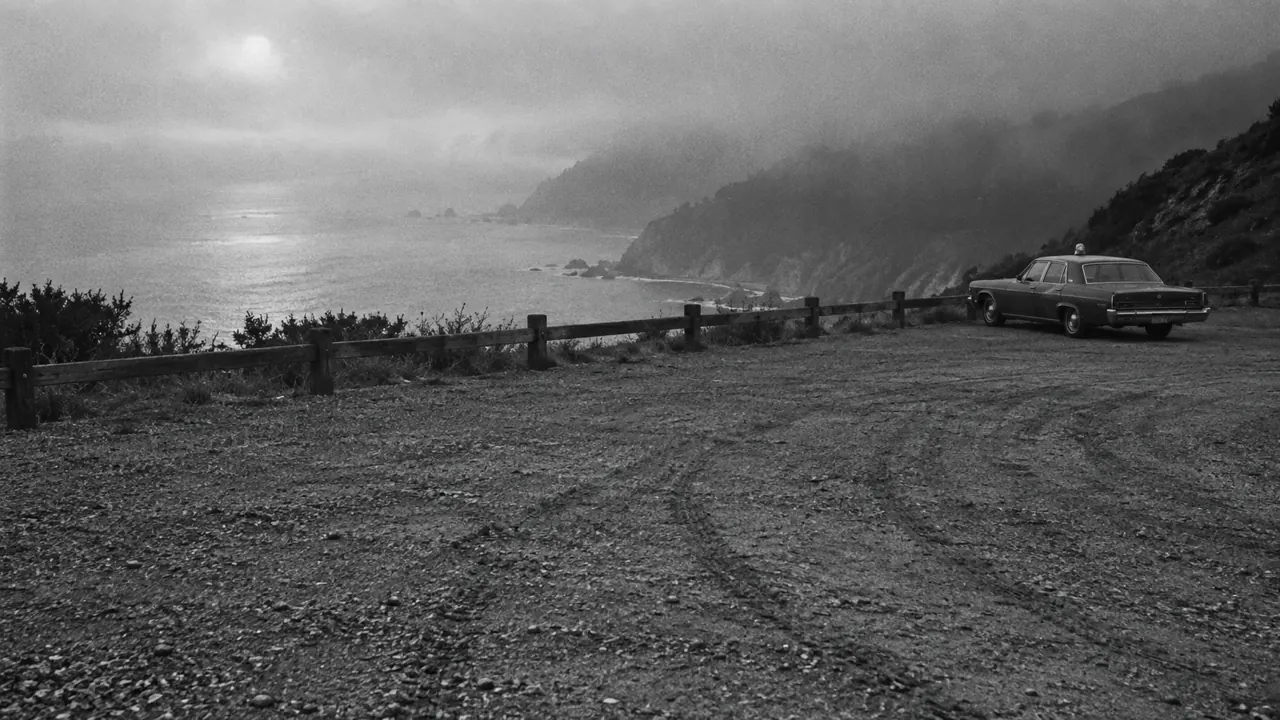
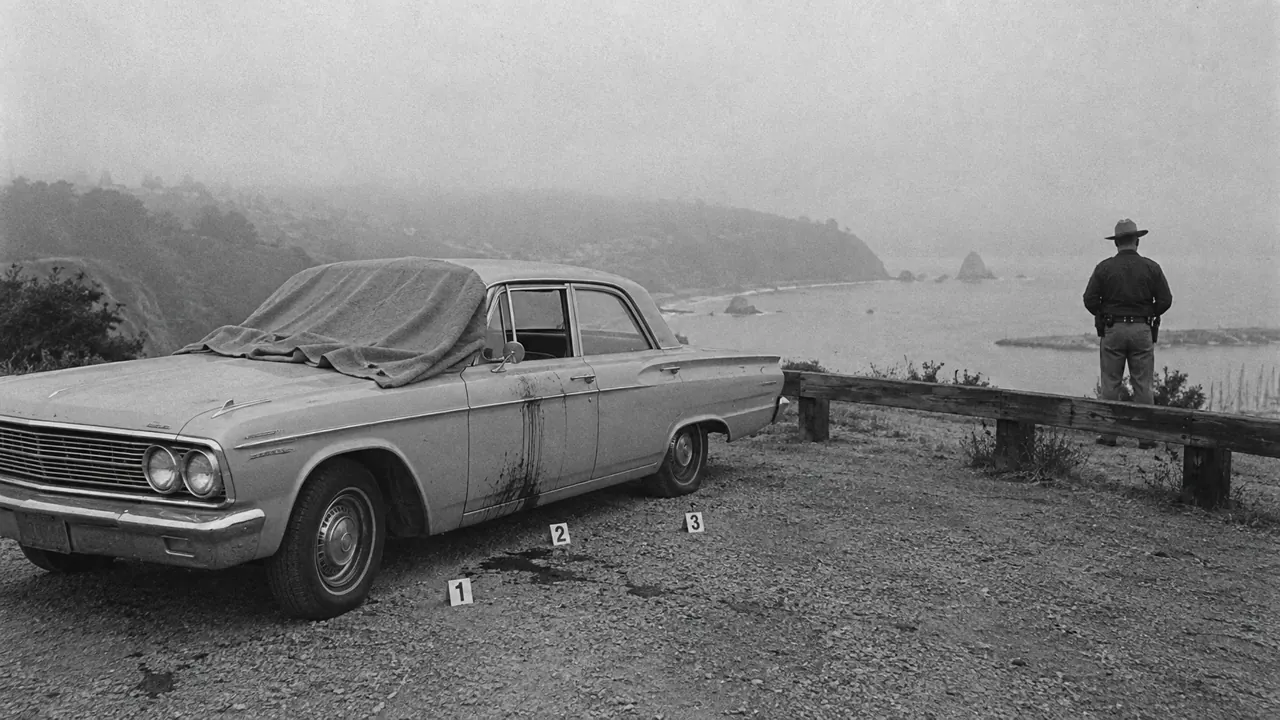
CASE 05 becomes a red-star case: coroner, car scene, survivor's chart
- graphic + warn; drone under the surf and foghorn
- r_coroner (Mason Hill): wound by wound, stippling gives firing distance,
  bullet paths put the shooter at the half-open driver window, eight
  casings within a metre — he never took a step
- r_scene (Cedar Creek): glass inward, casings in a half-circle, spatter,
  pooled, transfer and drip patterns; the survivor went round the back of
  the car toward the side the shooter stood on
- r_hospital: the survivor's wounds and the notes he wrote while intubated
- Wound details kept away from the real case's victims
- New Codex photos mh_car and cedar_car; masonhill and cedar redrawn with
  the car and its traces. All blurred until opened

diff --git a/cases/c05-westcoast-1969.js b/cases/c05-westcoast-1969.js
@@ -31,9 +31,10 @@
     id: 'c05', no: 5, region: 'overseas',
     title: '모래시계의 편지', year: '1968–1969', place: '캘리포니아 카브릴로 만 연안 (가상 지명)',
     motif: '모티프: 조디악 연쇄살인', length: '약 35분',
-    stars: 4,
+    stars: 4, graphic: true,
+    warn: '이 기록에는 총상의 자리와 발사 거리, 차 안팎의 혈흔을 검시·감식 기록의 말투로 적은 대목과 그 현장 사진이 들어 있습니다.',
     frame: 'papers',
-    mood: { light: 'sodium', fx: 'fog', amb: ['surf', 'horn'], line: '1969년, 캘리포니아 해안의 밤안개. 편집국 앞으로 모래시계가 그려진 편지가 온다.' },
+    mood: { light: 'sodium', fx: 'fog', amb: ['surf', 'horn', 'drone'], line: '1969년, 캘리포니아 해안의 밤안개. 편집국 앞으로 모래시계가 그려진 편지가 온다.' },
     tag: '**증거철 05** · KNOWLTON POLICE DEPT. · Case 68-1214 / 69-0503 · 편지 원본은 사본으로 대체 · 번역본',
     disclaimer: '실제 미제 사건의 모티프만 빌린 창작입니다. 도시·신문사·인물은 모두 지어낸 것이며, 실제 사건의 피해자나 용의자와 아무 관련이 없습니다.',
     emptyRead: '놀턴 경찰서 지하 창고에서 올라온 상자. 신문사 편집국이 넘긴 편지 사본과 경찰 기록이 섞여 있다.',
@@ -153,7 +154,7 @@
     },
     docs: {
       /* ── 편집국 우편함 ── */
-      m_1: { cls: 'f-gaegu ink-blue', src: 'mail', title: '⧗ 편지 (1)', meta: '1968년 12월 17일 (화) 수령 · 시티 데스크 앞', body: [
+      m_1: { cls: 'f-gaegu ink-blue', src: 'mail', blood: false, title: '⧗ 편지 (1)', meta: '1968년 12월 17일 (화) 수령 · 시티 데스크 앞', body: [
         { img: 'letter1', cap: '첫 편지와 봉투 (사본).' },
         { note: '원문 영어. 파란 볼펜으로 쓴 대문자. 편집국 번역부 옮김.' },
         '편집자에게.',
@@ -164,7 +165,7 @@
         { sign: '⧗' },
         { p: '봉투 — [[소인]] SANTA REINA CALIF · DEC 16 1968 · AM ([[산타 레이나]] 우체국, 월요일 아침 수거분) · 6센트 우표 · 받는 이 주소도 대문자', f: 'f_postmark' },
       ] },
-      m_2: { cls: 'f-gaegu ink-blue', src: 'mail', title: '⧗ 편지 (2) — 암호문 동봉', meta: '1969년 5월 6일 (화) 수령 · 시티 데스크 앞', body: [
+      m_2: { cls: 'f-gaegu ink-blue', src: 'mail', blood: false, title: '⧗ 편지 (2) — 암호문 동봉', meta: '1969년 5월 6일 (화) 수령 · 시티 데스크 앞', body: [
         { img: 'cipherimg', cap: '둘째 장에 그려진 기호들 (사본).' },
         { note: '원문 영어. 같은 파란 볼펜 대문자.' },
         'THE SAND RUNS. [[시더 크릭]]도 나다.',
@@ -174,7 +175,7 @@
         { sign: '⧗' },
         { p: '봉투 — 소인 MILLBROOK CALIF · MAY 5 1969 · AM ([[밀브룩]] 우체국, 월요일 아침 수거분) · 6센트 우표 2장', f: 'f_postmark' },
       ] },
-      m_3: { cls: 'typed', src: 'mail', title: '⧗ 편지 (3) — 타자', meta: '1969년 5월 9일 (금) 수령 · 편집자 앞', body: [
+      m_3: { cls: 'typed', src: 'mail', blood: false, title: '⧗ 편지 (3) — 타자', meta: '1969년 5월 9일 (금) 수령 · 편집자 앞', body: [
         { img: 'typed', cap: '타자로 친 편지 (사본).' },
         { note: '원문 영어. [[타자기]]로 침. 소문자 e 윗부분이 군데군데 끊겨 있다. 서명 자리에 모래시계를 펜으로 그렸는데 위아래 삼각형 크기가 다르다.' },
         '쿠리어 편집자 귀하.',
@@ -183,7 +184,7 @@
         { sign: '(펜으로 그린 모래시계)' },
         '봉투 — 소인 KNOWLTON CALIF · MAY 8 1969 · PM (놀턴 중앙우체국) · 주소는 타자',
       ] },
-      m_4: { cls: 'f-gaegu ink-blue', src: 'mail', title: '⧗ 편지 (4)', meta: '1969년 8월 19일 (화) 수령 · 시티 데스크 앞', body: [
+      m_4: { cls: 'f-gaegu ink-blue', src: 'mail', blood: false, title: '⧗ 편지 (4)', meta: '1969년 8월 19일 (화) 수령 · 시티 데스크 앞', body: [
         { note: '원문 영어. 파란 볼펜 대문자.' },
         'THE SAND RUNS.',
         '토요일 밤 [[그레이록 등대]]에 경찰차가 네 대 있더군. 나는 그 앞을 지나갔다. 너희는 나를 보고도 보지 못한다.',
@@ -192,19 +193,19 @@
         { p: '봉투 — 소인 PORT HALEY CALIF · AUG 18 1969 · AM ([[포트 헤일리]] 우체국, 월요일 아침 수거분)', f: 'f_postmark' },
         { m: '편지는 무엇이든 쓸 수 있다. 봉투는 제가 지나온 길만 말한다.' },
       ] },
-      m_r1: { cls: 'f-melody ink-navy', src: 'mail', title: '독자 편지 — "살인자에게 1면을 내주다니"', meta: '1968년 12월 23일 수령 · 밀브룩 거주 독자', body: [
+      m_r1: { cls: 'f-melody ink-navy', src: 'mail', blood: false, title: '독자 편지 — "살인자에게 1면을 내주다니"', meta: '1968년 12월 23일 수령 · 밀브룩 거주 독자', body: [
         '편집자에게. 저는 쿠리어를 20년 읽었습니다. 그런데 그런 사람의 편지를 1면에 싣다니요. 그 사람은 바로 그걸 바라는 겁니다.',
         '우리 동네에선 요즘 해가 지면 아무도 차를 세워 두지 않습니다. 일요일 아침 신문을 주우러 나가는 것도 겁이 난다는 이웃이 있어요.',
         { sign: 'H. 캠벨 부인' },
       ] },
-      m_r2: { cls: 'f-pen ink-black', src: 'mail', need: ['k_cipher'], title: '독자 편지 — "암호를 풀었습니다"', meta: '1969년 5월 12일 수령 · 놀턴 거주 독자 (고교 교사)', body: [
+      m_r2: { cls: 'f-pen ink-black', src: 'mail', need: ['k_cipher'], blood: false, title: '독자 편지 — "암호를 풀었습니다"', meta: '1969년 5월 12일 수령 · 놀턴 거주 독자 (고교 교사)', body: [
         '편집자에게. 금요일자 암호를 풀었습니다. 답은 THE POLICE ARE BLIND AND DEAF입니다. 기호가 반복되는 자리를 세어 보면 압니다.',
         '(번역부 메모: 첫 줄 둘째 낱말은 기호가 넷인데 POLICE는 여섯 글자다. 틀린 풀이.)',
         { sign: 'G. 월시' },
       ] },
 
       /* ── 쿠리어 자료실 ── */
-      n_1216: { src: 'morgue', find: ['k_masonhill', 'k_dec14'], title: '메이슨 힐 전망대서 젊은 남녀 숨진 채 발견', kicker: 'MONDAY · FINAL EDITION', meta: '1968년 12월 16일 (월) · 1면', body: [
+      n_1216: { src: 'morgue', find: ['k_masonhill', 'k_dec14'], blood: false, title: '메이슨 힐 전망대서 젊은 남녀 숨진 채 발견', kicker: 'MONDAY · FINAL EDITION', meta: '1968년 12월 16일 (월) · 1면', body: [
         { img: 'masonhill', cap: '메이슨 힐 전망대 주차장. 15일 아침.' },
         '14일 밤 [[메이슨 힐]] 전망대 주차장에 서 있던 승용차 안에서 [[대니얼 오어]](22)와 [[루스 캘러핸]](20)이 숨진 채 발견됐다. 두 사람은 약혼을 앞두고 있었다.',
         '카운티 보안관실은 "지갑과 시계가 그대로 있어 강도로 보기 어렵다"고 밝혔다. 두 사람은 총상을 입었으며, 발견 시각은 15일 0시 50분쯤이다.',
@@ -212,23 +213,23 @@
         '전망대는 시내에서 차로 15분 거리로, 밤이면 젊은 연인들이 차를 세우는 곳으로 알려져 있다.',
         { note: 'The Knowlton Courier · 번역: 편집국 번역부' },
       ] },
-      n_1220: { src: 'morgue', find: ['k_hourglass', 'k_courier', 'k_withheld'], title: '"모래시계"라는 사내, 본사에 편지 — "1면에 실어라"', kicker: 'FRIDAY · FINAL EDITION', meta: '1968년 12월 20일 (금) · 1면', body: [
+      n_1220: { src: 'morgue', find: ['k_hourglass', 'k_courier', 'k_withheld'], blood: false, title: '"모래시계"라는 사내, 본사에 편지 — "1면에 실어라"', kicker: 'FRIDAY · FINAL EDITION', meta: '1968년 12월 20일 (금) · 1면', body: [
         '메이슨 힐 사건의 범인이라고 스스로 밝힌 사람이 17일 본사 편집국에 편지를 보내왔다. 편지 끝에는 모래시계 그림으로 서명이 되어 있었다.',
         '본사는 경찰과 협의한 끝에 편지를 싣기로 했다. 다만 경찰의 요청에 따라 편지의 일부는 [[보도 유보]]했다.',
         '[[마거릿 로웰]] 시티 에디터는 "싣지 않으면 또 사람을 해치겠다는 편지를 무시할 수 없었다"고 말했다.',
         { note: 'The Knowlton Courier · 번역: 편집국 번역부' },
       ] },
-      n_0505: { src: 'morgue', find: ['k_cedar', 'k_may3'], title: '시더 크릭 주차장서 또… 여성 숨지고 남성 중상', kicker: 'MONDAY · FINAL EDITION', meta: '1969년 5월 5일 (월) · 1면', body: [
+      n_0505: { src: 'morgue', find: ['k_cedar', 'k_may3'], blood: false, title: '시더 크릭 주차장서 또… 여성 숨지고 남성 중상', kicker: 'MONDAY · FINAL EDITION', meta: '1969년 5월 5일 (월) · 1면', body: [
         { img: 'cedar', cap: '시더 크릭 트레일 주차장. 4일 아침.' },
         '3일 밤 [[시더 크릭]] 트레일 주차장에서 [[앤 노리스|k_morris]](24)가 숨지고 함께 있던 [[레이 두건]](27)이 크게 다쳤다. 두건은 병원에서 고비를 넘겼다.',
         '경찰은 사건 직후 경찰서에 걸려 온 [[신고 전화|k_payphone]] 한 통에 대해 "수사 중"이라며 말을 아꼈다.',
         '지난해 12월 메이슨 힐 사건과의 관련성에 대해 경찰은 "아직 말할 단계가 아니다"라고 했다.',
         { note: 'The Knowlton Courier · 번역: 편집국 번역부' },
       ] },
-      n_0507: { src: 'morgue', find: ['k_misprint', 'k_morris'], title: '바로잡습니다', kicker: 'WEDNESDAY', meta: '1969년 5월 7일 (수) · 2면', body: [
+      n_0507: { src: 'morgue', find: ['k_misprint', 'k_morris'], blood: false, title: '바로잡습니다', kicker: 'WEDNESDAY', meta: '1969년 5월 7일 (수) · 2면', body: [
         { p: '5일자 1면 시더 크릭 사건 기사에서 피해자 이름 「앤 노리스」는 「[[앤 모리스]]」의 [[오자]]이기에 바로잡습니다. 유족께 사과드립니다.', f: 'f_misprint' },
       ] },
-      n_0509: { src: 'morgue', find: ['k_cipher', 'k_sketch', 'k_star'], title: '"풀어 보라" — 모래시계의 암호문 전문', kicker: 'FRIDAY · FINAL EDITION', meta: '1969년 5월 9일 (금) · 1면', body: [
+      n_0509: { src: 'morgue', find: ['k_cipher', 'k_sketch', 'k_star'], blood: false, title: '"풀어 보라" — 모래시계의 암호문 전문', kicker: 'FRIDAY · FINAL EDITION', meta: '1969년 5월 9일 (금) · 1면', body: [
         '본사는 6일 도착한 편지에 들어 있던 [[암호문]]을 그대로 싣는다. 경찰과 대학 언어학과가 풀이에 나섰으나 아직 뜻을 밝히지 못했다.',
         { cipher: CIPHER_LINE },
         { img: 'sketch', cap: '생존자의 기억을 바탕으로 경찰이 만든 [[몽타주]].' },
@@ -236,13 +237,13 @@
         '경쟁지 [[베이 이브닝 스타]]는 암호를 가장 먼저 푼 독자에게 500달러를 주겠다고 발표했다.',
         { note: 'The Knowlton Courier · 번역: 편집국 번역부' },
       ] },
-      n_sunday: { src: 'morgue', find: ['k_sunday'], title: '쿠리어 일요일판, 만 북쪽 세 마을까지 새벽 배달', kicker: 'SUNDAY · ANNOUNCEMENT', meta: '1968년 9월 29일 (일) · 사고(社告)', body: [
+      n_sunday: { src: 'morgue', find: ['k_sunday'], blood: false, title: '쿠리어 일요일판, 만 북쪽 세 마을까지 새벽 배달', kicker: 'SUNDAY · ANNOUNCEMENT', meta: '1968년 9월 29일 (일) · 사고(社告)', body: [
         { img: 'truck', cap: '새로 들여온 배송 트럭.' },
         { p: '다음 달부터 일요일판이 [[7번 노선]] 신설로 [[산타 레이나]], [[밀브룩]], [[포트 헤일리]]의 가정에도 해 뜨기 전에 배달된다.', f: 'f_route7' },
         '배송 트럭은 토요일 자정이 지나면 [[도크 스트리트]]의 [[배송 창고]]에서 판을 싣고 떠난다.',
         '배송부장 [[버넌 오스굿]]은 "일요일 아침 식탁마다 쿠리어를"이라고 말했다.',
       ] },
-      n_0818: { src: 'morgue', find: ['k_graylock'], title: '등대 잠복 허탕 — 모래시계 나타나지 않아', kicker: 'MONDAY', meta: '1969년 8월 18일 (월) · 3면', body: [
+      n_0818: { src: 'morgue', find: ['k_graylock'], blood: false, title: '등대 잠복 허탕 — 모래시계 나타나지 않아', kicker: 'MONDAY', meta: '1969년 8월 18일 (월) · 3면', body: [
         { img: 'lighthouse', cap: '그레이록 등대길. 잠복 이튿날 아침.' },
         '경찰은 16일 밤부터 17일 아침까지 [[그레이록 등대]] 일대에 잠복했으나 수상한 사람을 찾지 못했다. 등대 근처에서 연인들의 차가 자주 서는 데 따른 조치였다.',
         '경찰 관계자는 "밤새 지나간 차는 몇 대 되지 않았다"고 말했다.',
@@ -250,14 +251,37 @@
       ] },
 
       /* ── 놀턴 경찰 기록철 ── */
-      r_radio: { src: 'kpd', title: '무전 기록 — 12월 15일 새벽', meta: '카운티 보안관실 통신실 · 채널 2 · 받아 적은 이: 통신원 매킨리', body: [
+      r_radio: { src: 'kpd', blood: true, title: '무전 기록 — 12월 15일 새벽', meta: '카운티 보안관실 통신실 · 채널 2 · 받아 적은 이: 통신원 매킨리', body: [
         { say: '메이슨 힐 전망대 주차장, 승용차 1대. 안에 남녀 2명, 반응 없음. 구급차 요청.', who: '순찰 12', at: '00:52' },
         { say: '구급차 출발. 보안관 대리 두 명 더 보냄.', who: '통신실', at: '00:54' },
         { say: '두 사람 다 숨졌음. 현장 보존. 차 [[카 라디오]] 켜져 있음, 음악 나오고 있음. 탄피 여럿, 수거 대기.', who: '순찰 12', at: '01:12', f: 'f_radio_broadcast' },
         { say: '알았다. 검시관 연락하겠다.', who: '통신실', at: '01:13' },
         { note: '※ 이 채널은 시판되는 [[경찰 무전 수신기]](police band 라디오)로 누구나 들을 수 있음. 카운티 안에 수백 대로 추정.' },
       ] },
-      r_call: { src: 'kpd', title: '통신실 녹취 — 5월 4일 0시 18분 신고 전화', meta: '놀턴 경찰서 통신실 · 받은 이: 당직 [[하비 스톤 경사]] · 녹음 테이프에서 옮겨 적음', body: [
+      r_coroner: { src: 'kpd', need: ['k_orr'], skin: 'report', blood: 'heavy', title: '검시 보고서 — 메이슨 힐 (68-1214)', kicker: 'KABRILLO COUNTY CORONER · 번역본', meta: '1968년 12월 15일 09:40 ~ 16:10 · 카운티 병원 영안실 · 검시의 H. 린드퀴스트 · 입회 보안관 대리 2', body: [
+        { img: 'mh_car', cap: '15일 01:30 현장 사진. 검시관이 오기 전까지 두 사람은 앞좌석에 그대로 있었다.' },
+        { h: '1. 대니얼 오어 (남 · 22세) — 운전석' },
+        { rows: [
+          ['총상', '2곳. 사출구 없음. 탄두 2개 회수'],
+          ['①', '왼쪽 관자놀이. 사입구 지름 약 6mm, 둘레 지름 4cm 안에 화약 알갱이가 박힌 점상 문신 — 발사 거리 15~45cm. 탄두는 머리뼈 안을 오른쪽 위로 지나 두정부 안쪽에 멈춤'],
+          ['②', '왼쪽 가슴 셋째 갈비 사이. 화약 문신 없음 — 60cm 넘는 거리. 우심실을 뚫고 척추 오른쪽에 멈춤'],
+          ['손', '왼손 등과 새끼손가락 쪽에 화약 알갱이 몇 점 — 얼굴 앞으로 손을 들어 올린 채 맞은 것으로 봄'],
+          ['사인', '① 두부 총상'],
+        ], head: ['항목', '소견'] },
+        { h: '2. 루스 캘러핸 (여 · 20세) — 조수석' },
+        { rows: [
+          ['총상', '4곳. 등 오른쪽 위 3, 오른쪽 위팔 1 (팔을 뚫고 가슴으로 다시 들어감). 탄두 4개 회수'],
+          ['방향', '모두 등에서 가슴 쪽으로, 차의 왼쪽에서 오른쪽으로, 조금 아래로. 화약 문신 없음 — 1m 넘는 거리'],
+          ['자세', '몸통이 조수석 문 쪽으로 돌아 있었음. 운전석 창에 등을 보인 채 맞음'],
+          ['손', '오른손 손바닥과 손가락 안쪽에 제 피. 손톱 두 개 밑에 문 안쪽 손잡이의 크롬 도금 부스러기'],
+          ['사인', '폐와 대동맥 손상에 따른 실혈'],
+        ], head: ['항목', '소견'] },
+        '두 사람 모두 위에 팝콘과 탄산음료가 조금 — 먹은 지 1~2시간. 체온·시반·시강으로 본 사망 시각은 14일 23시에서 15일 0시 30분 사이.',
+        '몸에서 나온 탄두 6개와 계기판·조수석 문틀에서 파낸 2개, 모두 .22 구경 롱 라이플. 강선 자국이 같아 한 총에서 나온 것으로 봄. 탄피 8개는 운전석 문 밖 자갈 위 1m 안에 모여 있었음 (보안관실 감식).',
+        { note: '※ 검시의 소견: 첫 발은 반쯤 내린 운전석 창 틈으로, 창 바로 밖에서 쏨. 조수석 여성은 문을 열려고 돌아앉다가 등에 맞음. 쏜 사람은 서 있던 자리에서 한 걸음도 옮기지 않았음.' },
+        { sign: '카브릴로 카운티 검시의 H. 린드퀴스트 (서명)' },
+      ] },
+      r_call: { src: 'kpd', blood: true, title: '통신실 녹취 — 5월 4일 0시 18분 신고 전화', meta: '놀턴 경찰서 통신실 · 받은 이: 당직 [[하비 스톤 경사]] · 녹음 테이프에서 옮겨 적음', body: [
         { say: '놀턴 경찰서입니다.', who: '스톤', at: '00:18' },
         { say: '[[시더 크릭]] 트레일 주차장에 가 봐. 차 안에 두 사람이 있다.', who: '남자' },
         { say: '성함이 어떻게 되십니까? 지금 어디서—', who: '스톤' },
@@ -268,61 +292,98 @@
         '00:20 스톤 경사, 전화회사 교환국에 [[회선 추적]] 요청. 00:21 순찰차 2대 시더 크릭으로 출발.',
         { note: '목소리: 낮고 차분함. 사투리 없음. 30대 안팎으로 들림 (스톤 경사 소견).' },
       ] },
-      r_trace: { src: 'kpd', need: ['k_trace'], skin: 'report', title: '회선 추적 회신 — 5월 4일 새벽', meta: '카브릴로 전화회사 놀턴 교환국 → 놀턴 경찰서', body: [
+      r_trace: { src: 'kpd', need: ['k_trace'], skin: 'report', blood: false, title: '회선 추적 회신 — 5월 4일 새벽', meta: '카브릴로 전화회사 놀턴 교환국 → 놀턴 경찰서', body: [
         { img: 'payphone', cap: '00:39 순찰차가 찍은 공중전화. 수화기가 늘어져 있다.' },
         { rows: [['00:20', '경찰서 요청 접수. 통화 회선이 열린 채 유지됨'], ['00:29', '발신 회선 확인 — 도크 스트리트 212, 주유소 옆 [[공중전화]] (KN 4-0917)'], ['00:39', '순찰차 도착. 수화기가 줄에 매달려 흔들리고 있었음. 주변에 사람 없음'], ['비고', '공중전화 길 건너편은 놀턴 쿠리어 [[배송 창고]]. 토요일 밤 일요일판 싣는 작업 중이라 창고 불이 켜져 있었음']], head: ['시각', '내용'], f: { 1: 'f_trace', 3: 'f_trace' } },
         { p: '공중전화 수화기와 부스 유리에서 지문 여럿 채취 — 주유소 손님과 섞여 가려내기 어려움.' },
         { sign: '교환국 야간 주임 R. 파울러' },
       ] },
-      r_withheld: { src: 'kpd', need: ['k_withheld'], skin: 'report', title: '협조 요청 — 보도 유보 사항', meta: '놀턴 경찰서 수사과 → 쿠리어·이브닝 스타 편집국 · 1969년 5월 5일', body: [
+      r_scene: { src: 'kpd', need: ['k_morris'], skin: 'report', blood: 'heavy', title: '현장 감식 기록 — 시더 크릭 트레일 주차장', kicker: 'KNOWLTON P.D. · 감식반 · 69-0503 · 번역본', meta: '1969년 5월 4일 00:43 순찰차 도착 · 02:10 ~ 06:30 감식 · 감식반 E. 토레스', body: [
+        { img: 'cedar_car', cap: '조수석 쪽에서 들여다본 피해 차량. 02:30 섬광 촬영.' },
+        { rows: [
+          ['차량', '1964년형 2도어 세단 (레이 두건 소유). 시동·전조등·라디오 모두 꺼짐. 문 잠금 풀림'],
+          ['조수석 창', '밖에서 안으로 깨짐. 창틀에 가장자리만 남음. 유리 알갱이는 조수석, 운전석 바닥, 두 사람 무릎 자리까지 흩어짐. 창밖 자갈 위에는 몇 알뿐'],
+          ['탄피', '9mm 파라벨룸 7개 — 조수석 문에서 1~2m 사이에 반원을 그리며 흩어짐'],
+          ['지붕', '[[캠핑 랜턴]] 1개 — 켜진 채 발견. 기름 거의 다 탐. (보도 유보 사항 2 — 무전에 올리지 않음)'],
+        ], head: ['항목', '소견'], f: { 3: 'f_withheld' } },
+        { h: '혈흔' },
+        { list: [
+          '1. 조수석 등받이·머리받이와 천장 안감 — 지름 1~3mm 비산흔 수십 점. 조수석에서 운전석 쪽으로 뻗음.',
+          '2. 조수석 시트 — 고인 피. 가장자리부터 말라 들어감. 시트 스프링을 지나 바닥 매트까지 스밈.',
+          '3. 운전석 창 안쪽과 운전석 문 안쪽 — 가는 비산흔과 흘러내린 자국.',
+          '4. 운전석 문 안쪽 손잡이와 창틀 — 손바닥 전이흔 여러 겹. 손잡이를 몇 번 놓쳤다가 다시 잡은 자국.',
+          '5. 자갈 위 낙하흔 — 운전석 문에서 나와 트렁크를 돌아 조수석 쪽으로 이어짐. 뒤 펜더에 손바닥 자국 (차를 짚고 돌아간 자국). 조수석 뒷바퀴에서 1.8m 되는 자리에 고인 피 — 생존자가 엎드려 있던 자리. 쏜 사람이 서 있던 쪽으로 기어간 셈.',
+        ] },
+        { h: '발자국 · 바퀴 자국' },
+        '조수석 쪽 흙과 자갈에 남자 신발 자국 — 크기 10½ 안팎, 밑창에 가로 홈이 촘촘한 작업화. 차 뒤쪽에서 와서 조수석 창 앞에 멈추었다가 같은 길로 돌아감. 보폭이 처음부터 끝까지 고르다. 뛴 자국이 없다.',
+        '피해 차 뒤 약 6m에 다른 차의 바퀴 자국. 한 번에 빠져나감. 후진한 자국 없음.',
+        { note: '※ 조수석 발밑에 앤 모리스의 핸드백 — 잠긴 채. 지갑 속 21달러 그대로.' },
+        { note: '※ 00:18 신고 전화는 「차 안에 두 사람이 있다」고 했다. 순찰차가 왔을 때 한 사람은 차 밖 자갈 위에 있었다. 전화를 건 사람은 그가 문을 열고 나오는 것을 보지 못했다.' },
+        { sign: '감식반 E. 토레스' },
+      ] },
+      r_hospital: { src: 'kpd', need: ['k_dugan'], skin: 'report', blood: 'heavy', title: '진료 기록 발췌 — 레이 두건', kicker: 'KNOWLTON MUNICIPAL HOSPITAL · 응급실 · 외과 · 번역본', meta: '1969년 5월 4일 01:22 입원 · 수사과 요청으로 발췌', body: [
+        { rows: [
+          ['01:22', '구급차 도착. 의식 있으나 말을 하지 못함. 혈압 70/40. 옷과 머리카락에 유리 알갱이'],
+          ['총상 ①', '오른쪽 어깨 — 쇄골 골절. 탄두가 오른쪽 폐 윗부분을 찢고 등 근육 속에서 멈춤. 가슴 안에 피와 공기가 차 숨을 제대로 쉬지 못함'],
+          ['총상 ②', '오른쪽 위팔 안쪽 관통. 사입구 둘레에 화약 문신 없이 유리 가루가 박힘 — 창유리를 사이에 두고 맞음'],
+          ['총상 ③', '오른쪽 옆구리 — 아홉째 갈비 골절, 간 가장자리 찢김'],
+          ['열상', '두 아래팔 바깥쪽에 유리 조각에 베인 상처 11곳 — 얼굴 앞으로 팔을 들어 막은 자세'],
+          ['처치', '기관 삽관. 오른쪽 가슴관 삽입 (피 1,100cc 빠짐). 개복 수술 (간 봉합). 수혈 7단위'],
+        ], head: ['시각 · 부위', '기록'] },
+        '5월 6일 중환자실 간호 기록: 환자가 종이에 「불빛」 「목소리」 두 낱말만 되풀이해 씀. 목에 관을 꽂고 있어 닷새 동안 말을 할 수 없음.',
+        '5월 7일 수사과 면담 (필담): 뒤에 선 차에서 한 사람이 손전등을 들고 조수석 쪽으로 걸어옴. 경찰인 줄 알았음. 불빛 뒤에서 낮은 목소리로 무어라 말했고, 그다음에 유리가 깨졌다.',
+        { note: '※ 함께 실려 온 앤 모리스 (24)는 01:24 도착 때 이미 숨짐. 오른쪽 가슴 2, 오른쪽 옆구리 1, 오른쪽 위팔 1 — 네 곳 모두 사입구 둘레에 유리 가루. 검시관 소견: 조수석 창을 사이에 두고 1m 안에서 쏨. 몸에서 나온 탄두와 두건의 탄두 모두 9mm.' },
+        { sign: '외과 당직의 R. 페이지 (서명)' },
+      ] },
+      r_withheld: { src: 'kpd', need: ['k_withheld'], skin: 'report', blood: false, title: '협조 요청 — 보도 유보 사항', meta: '놀턴 경찰서 수사과 → 쿠리어·이브닝 스타 편집국 · 1969년 5월 5일', body: [
         { stamp: 'CONFIDENTIAL' },
         '아래 사항은 수사상 필요하므로 기사로 쓰지 말아 주기 바람.',
         { list: ['1. ⧗ 편지의 첫 문장 (12월 편지에서 앞으로 늘 이 문구로 시작하겠다고 밝힘)', '2. 시더 크릭 현장 피해 차량 지붕 위의 [[캠핑 랜턴]]', '3. 5월 4일 새벽 신고 전화의 내용'], f: { 1: 'f_withheld' } },
         { p: '2번은 현장 무전에도 올리지 않았음. 생존자와 현장 경관 네 명만 아는 사항.', f: 'f_withheld' },
         { sign: '수사과장 D. 하글런드' },
       ] },
-      r_typewriter: { src: 'kpd', need: ['k_typewriter'], skin: 'report', title: '문서 감정 회신 — 5월 9일 도착 타자 편지', meta: '주 법무부 감식과 → 놀턴 경찰서 · 1969년 5월 16일', body: [
+      r_typewriter: { src: 'kpd', need: ['k_typewriter'], skin: 'report', blood: false, title: '문서 감정 회신 — 5월 9일 도착 타자 편지', meta: '주 법무부 감식과 → 놀턴 경찰서 · 1969년 5월 16일', body: [
         { rows: [['활자', '엘리트체. 소문자 e 윗고리 파손, 대문자 T 왼쪽으로 기울어 찍힘'], ['대조', '쿠리어 독자 투고란 단골 투고자 [[월도 펠]]의 투고 편지 11통과 같은 파손 흔적'], ['첫 문장', '없음 — 다른 ⧗ 편지(손글씨)와 달리 첫 문장이 빠져 있음'], ['서명', '펜으로 그린 모래시계. 다른 편지의 모래시계와 비율이 다름']], head: ['항목', '결과'], f: { 1: 'f_typewriter' } },
         '손글씨 편지 세 통과는 쓴 사람이 다른 것으로 봄.',
       ] },
-      r_jail: { cls: 'typed', src: 'kpd', need: ['k_pell'], skin: 'ledger', title: '카운티 구치소 입출소 기록 — 월도 펠', meta: '리나 카운티 보안관실 · 발췌', body: [
+      r_jail: { cls: 'typed', src: 'kpd', need: ['k_pell'], skin: 'ledger', blood: false, title: '카운티 구치소 입출소 기록 — 월도 펠', meta: '리나 카운티 보안관실 · 발췌', body: [
         { rows: [['1969.05.03 21:10', '입소', '주취 · 메인 스트리트 술집에서 소란'], ['1969.05.04 07:00', '퇴소', '벌금 25달러 납부 약속']], head: ['일시', '구분', '사유'], f: { 0: 'f_pell_jail' } },
         { note: '입소 뒤 밤새 공동 보호실. 당직 간수 확인.' },
       ] },
-      r_coyle: { cls: 'typed', src: 'kpd', need: ['k_coyle'], skin: 'ledger', title: '출근 카드 조회 — 미치 코일', meta: '[[베이쇼어 정유공장]] 인사과 회신 · 1968년 12월 20일', body: [
+      r_coyle: { cls: 'typed', src: 'kpd', need: ['k_coyle'], skin: 'ledger', blood: false, title: '출근 카드 조회 — 미치 코일', meta: '[[베이쇼어 정유공장]] 인사과 회신 · 1968년 12월 20일', body: [
         { rows: [['1968.12.14 (토)', '21:58 출근 타각', '야간조'], ['1968.12.15 (일)', '06:03 퇴근 타각', '—']], head: ['날짜', '기록', '비고'], f: { 0: 'f_coyle_shift' } },
         '야간 반장 진술: 코일은 밤새 3번 증류탑에서 함께 일했음. 자리를 비운 것은 식사 시간 20분뿐. 정유공장에서 메이슨 힐까지 차로 40분.',
       ] },
-      r_stakeout: { src: 'kpd', need: ['k_graylock'], skin: 'ledger', title: '잠복 일지 — 그레이록 등대 (8월 16~17일)', meta: '놀턴 경찰서 수사과 · 차량 4대', body: [
+      r_stakeout: { src: 'kpd', need: ['k_graylock'], skin: 'ledger', blood: false, title: '잠복 일지 — 그레이록 등대 (8월 16~17일)', meta: '놀턴 경찰서 수사과 · 차량 4대', body: [
         { rows: [['22:00', '배치 끝남. 등대길 양쪽 2대씩'], ['23:40', '승용차 1대 — 연인. 검문 뒤 돌려보냄'], ['02:15', '이상 없음'], ['05:12', '놀턴 쿠리어 배송 트럭 1대 북쪽으로 지나감 — 일요일판 배달. 검문하지 않음'], ['05:58', '같은 트럭 남쪽으로 돌아감'], ['06:30', '철수']], head: ['시각', '내용'], f: { 3: 'f_stakeout_truck' } },
       ] },
-      r_route: { cls: 'typed', src: 'kpd', need: ['k_route7'], skin: 'ledger', title: '배송 노선표 — 7번 노선 (일요일판)', meta: '놀턴 쿠리어 배송부 · 1968년 10월 개정 · 임의 제출', body: [
+      r_route: { cls: 'typed', src: 'kpd', need: ['k_route7'], skin: 'ledger', blood: false, title: '배송 노선표 — 7번 노선 (일요일판)', meta: '놀턴 쿠리어 배송부 · 1968년 10월 개정 · 임의 제출', body: [
         { rows: [['00:30', '[[도크 스트리트]] 창고에서 판 싣기'], ['01:10', '창고 출발'], ['02:40', '[[산타 레이나]] — 판매소 3곳, 우체국 앞 신문함'], ['03:50', '[[밀브룩]] — 판매소 2곳, 가정 배달원 인계'], ['05:12', '[[그레이록 등대]]길 지나감'], ['05:40', '[[포트 헤일리]] — 판매소 2곳'], ['07:00 전후', '창고 돌아옴']], head: ['시각', '들르는 곳'], f: { 2: 'f_route7', 3: 'f_route7', 5: 'f_route7' } },
         '일요일판만 달리는 노선. 평일에는 운행하지 않음.',
       ] },
 
       /* ── 배송부 배차 대장 (조회해야 나온다) ── */
-      q_1215: { src: 'haul', title: '배차 대장 — 1968년 12월 15일 (일)', kicker: 'KNOWLTON COURIER · CIRCULATION · SUNDAY ROUTES', meta: '배송부 배차 대장 사본 · 오스굿 부장 떼어 줌', body: [
+      q_1215: { src: 'haul', blood: false, title: '배차 대장 — 1968년 12월 15일 (일)', kicker: 'KNOWLTON COURIER · CIRCULATION · SUNDAY ROUTES', meta: '배송부 배차 대장 사본 · 오스굿 부장 떼어 줌', body: [
         { rows: [['1번 (시내)', '[[프랭크 델가도]]', '바꿈'], ['4번 (남부)', '해리스', '—'], ['7번 (북부)', '[[칼 브레넌]]', '바꿈 — 본래 델가도']], head: ['노선', '운전사', '비고'], f: { 2: 'f_roster7' } },
         { p: '바꿈 청: 브레넌 — 12월 13일 (금) 말로. 까닭 「북쪽 길이 한가하다」. 배송부장 서명.', f: 'f_swap' },
         { note: '7번 트럭 창고 출발 01:10 · 돌아옴 07:05.' },
       ] },
-      q_0504: { src: 'haul', title: '배차 대장 — 1969년 5월 4일 (일)', kicker: 'KNOWLTON COURIER · CIRCULATION · SUNDAY ROUTES', meta: '배송부 배차 대장 사본 · 오스굿 부장 떼어 줌', body: [
+      q_0504: { src: 'haul', blood: false, title: '배차 대장 — 1969년 5월 4일 (일)', kicker: 'KNOWLTON COURIER · CIRCULATION · SUNDAY ROUTES', meta: '배송부 배차 대장 사본 · 오스굿 부장 떼어 줌', body: [
         { rows: [['1번 (시내)', '[[프랭크 델가도]]', '바꿈'], ['4번 (남부)', '퀸', '해리스 병가 대신'], ['7번 (북부)', '[[칼 브레넌]]', '바꿈 — 본래 델가도']], head: ['노선', '운전사', '비고'], f: { 2: 'f_roster7' } },
         { p: '바꿈 청: 브레넌 — 5월 2일 (금) 말로. 까닭 적지 않음. 배송부장 서명.', f: 'f_swap' },
         { note: '판 싣기 00:30 시작 · 7번 트럭 창고 출발 01:12 · 돌아옴 07:12.' },
       ] },
-      q_0817: { src: 'haul', title: '배차 대장 — 1969년 8월 17일 (일)', kicker: 'KNOWLTON COURIER · CIRCULATION · SUNDAY ROUTES', meta: '배송부 배차 대장 사본 · 오스굿 부장 떼어 줌', body: [
+      q_0817: { src: 'haul', blood: false, title: '배차 대장 — 1969년 8월 17일 (일)', kicker: 'KNOWLTON COURIER · CIRCULATION · SUNDAY ROUTES', meta: '배송부 배차 대장 사본 · 오스굿 부장 떼어 줌', body: [
         { rows: [['1번 (시내)', '[[프랭크 델가도]]', '바꿈'], ['4번 (남부)', '퀸', '—'], ['7번 (북부)', '[[칼 브레넌]]', '바꿈 — 본래 델가도']], head: ['노선', '운전사', '비고'], f: { 2: 'f_roster7' } },
         { p: '배송부장 메모: 7번은 본래 델가도 노선. 지난 12월부터 이 대장에서 7번을 바꿔 탄 날은 셋 — 12.15, 5.4, 8.17. 셋 다 브레넌이 먼저 청함 (까닭은 대개 「북쪽 길이 한가하다」).', f: 'f_swap' },
         { note: '7번 트럭 창고 출발 01:08 · 돌아옴 06:58.' },
       ] },
-      q_usual: { src: 'haul', title: '배차 대장 — 그 밖의 일요일', kicker: 'KNOWLTON COURIER · CIRCULATION · SUNDAY ROUTES', meta: '조회한 날짜의 장을 한데 옮겨 적음', body: [
+      q_usual: { src: 'haul', blood: false, title: '배차 대장 — 그 밖의 일요일', kicker: 'KNOWLTON COURIER · CIRCULATION · SUNDAY ROUTES', meta: '조회한 날짜의 장을 한데 옮겨 적음', body: [
         { rows: [['1968.12.08', '브레넌', '해리스', '델가도'], ['1968.12.22', '브레넌', '해리스', '델가도'], ['1969.04.27', '브레넌', '해리스', '델가도'], ['1969.05.11', '브레넌', '퀸', '델가도'], ['1969.08.10', '브레넌', '퀸', '델가도']], head: ['일요일', '1번 (시내)', '4번 (남부)', '7번 (북부)'] },
         '1번 시내 노선은 [[칼 브레넌]], 7번 북부 노선은 [[프랭크 델가도]]가 맡는다. 이 날들에는 바꾼 기록이 없다.',
         { note: '해리스 — 5월부터 병가. 퀸이 대신 맡음.' },
       ] },
-      r_timecard: { cls: 'typed', src: 'kpd', need: ['k_timecard'], skin: 'ledger', title: '출근 카드 — 배송부 (5월 3일 토요일 밤)', meta: '놀턴 쿠리어 배송 창고 · 타각 기록 · 임의 제출', body: [
+      r_timecard: { cls: 'typed', src: 'kpd', need: ['k_timecard'], skin: 'ledger', blood: false, title: '출근 카드 — 배송부 (5월 3일 토요일 밤)', meta: '놀턴 쿠리어 배송 창고 · 타각 기록 · 임의 제출', body: [
         { img: 'depot', cap: '도크 스트리트 배송 창고. 토요일 밤 판 싣는 모습 (쿠리어 사진부).' },
         { rows: [['델가도', '23:52'], ['퀸', '00:05'], ['브레넌', '00:31'], ['창고 주임 월리스', '23:30']], head: ['이름', '출근 타각'], f: { 2: 'f_timecard' } },
         '판 싣기는 00:30 시작. 브레넌은 1분 늦음. 평소에는 자정 전에 옴 (같은 달 다른 토요일 23:50, 23:48, 23:55).',
@@ -425,7 +486,7 @@
       ],
       next: '보고서를 덮자, 서랍 속 다음 폴더의 끈이 풀려 있었다. → 기록실로 돌아가 CASE 06으로.',
     },
-    artStyle: '1969 American newspaper wire photo and police file photography, Northern California coast: black-and-white 35mm Tri-X, heavy grain, harsh on-camera flash at night, coastal fog and sodium streetlight glow, halftone dot texture when reproduced in the newspaper, late-1960s cars, phone booths and street furniture without brand logos. No readable text, no recognizable faces, no bodies, no blood, no weapons shown.',
+    artStyle: '1969 American newspaper wire photo and police file photography, Northern California coast: black-and-white 35mm Tri-X, heavy grain, harsh on-camera flash at night, coastal fog and sodium streetlight glow, halftone dot texture when reproduced in the newspaper, late-1960s cars, phone booths and street furniture without brand logos. Police scene photographs may show dark dried blood traces (fine spatter on upholstery, pooled stains soaked into seats, smeared palm marks on doors, drops on gravel), shattered safety glass and forms completely covered by grey blankets. No wounds, no exposed bodies, no recognizable faces, no weapons, no readable text.',
     art: {
       cover: { use: '기록실 폴더 표지 — 편집국 책상 위의 봉투 더미와 모래시계', ratio: '4:3',
         svg: '<svg viewBox="0 0 200 150"><rect width="200" height="150" fill="#3e3a34"/><rect x="30" y="50" width="96" height="60" fill="#e8e0cc" transform="rotate(-8 78 80)"/><rect x="60" y="40" width="96" height="60" fill="#f1ead8" transform="rotate(5 108 70)"/><rect x="132" y="46" width="14" height="16" fill="#8a3a2a" transform="rotate(5 108 70)"/><path d="M160 96 h24 l-12 16 l12 16 h-24 l12 -16 z" fill="#c9a86a" stroke="#6a5030" stroke-width="2"/></svg>',
@@ -442,12 +503,22 @@
         svg: '<svg viewBox="0 0 150 200"><rect width="150" height="200" fill="#e6e2d8"/><ellipse cx="75" cy="88" rx="32" ry="42" fill="none" stroke="#555" stroke-width="2"/><path d="M44 64 Q75 38 106 64" stroke="#555" stroke-width="4" fill="none"/><rect x="50" y="82" width="20" height="12" rx="3" fill="none" stroke="#333" stroke-width="3"/><rect x="80" y="82" width="20" height="12" rx="3" fill="none" stroke="#333" stroke-width="3"/><path d="M30 200 Q75 140 120 200" stroke="#555" stroke-width="2" fill="#bdb8ac"/></svg>',
         prompt: 'A 1969 police artist composite pencil sketch of a generic man around thirty with short hair and heavy-rimmed glasses, dark work jacket, frontal view, simple shading on off-white paper, printed in a newspaper with coarse halftone, deliberately generic features that resemble no real person.',
         avoid: '실존 인물(실제 사건의 몽타주 포함)을 닮지 않게.' },
-      masonhill: { use: '메이슨 힐 전망대 주차장 (사건 뒤 낮 풍경)', ratio: '16:9',
+      masonhill: { use: '메이슨 힐 전망대 주차장 (사건 이튿날 아침, 아직 서 있는 피해 차량)', ratio: '16:9', sensitive: true,
+        must: '반쯤 내린 운전석 창 · 운전석 문 옆 자갈 위 번호표와 마른 얼룩',
         svg: '<svg viewBox="0 0 200 112"><rect width="200" height="112" fill="#9aa0a2"/><path d="M0 60 Q60 30 120 50 T200 40 V112 H0 Z" fill="#5f6660"/><rect x="0" y="84" width="200" height="28" fill="#7c7f7a"/><rect x="120" y="72" width="3" height="16" fill="#333"/><rect x="100" y="70" width="44" height="3" fill="#333"/></svg>',
-        prompt: 'An empty gravel lookout parking area on a coastal hill in the morning fog, a low wooden guard rail, the bay faintly visible below, a single sheriff patrol car parked far away, tire marks in the gravel, 1968 Northern California, desolate and quiet.' },
-      cedar: { use: '시더 크릭 트레일 주차장 (다음 날 아침)', ratio: '16:9',
+        prompt: 'A gravel lookout parking area on a coastal hill in the grey morning fog after a night shooting: the early-1960s sedan of the two victims still parked against a low wooden guard rail, its driver window half lowered, a grey blanket thrown over the windshield so nothing inside can be seen, small numbered evidence markers on the gravel within a metre of the driver door, dark dried stains on the gravel and running down the lower edge of the door, one deputy standing far off with his back turned, the bay faintly visible below, 1968 Northern California newspaper photo, desolate and quiet.' },
+      cedar: { use: '시더 크릭 트레일 주차장 (다음 날 아침, 줄을 둘러친 피해 차량)', ratio: '16:9', sensitive: true,
+        must: '조수석 창이 깨진 차 · 뒤 펜더의 손바닥 자국과 조수석 뒤쪽 자갈의 짙은 얼룩 · 조수석 옆 반원 모양 번호표',
         svg: '<svg viewBox="0 0 200 112"><rect width="200" height="112" fill="#7d857a"/><g fill="#3d4a3a"><path d="M20 90 L34 20 L48 90Z"/><path d="M150 90 L166 14 L182 90Z"/><path d="M60 90 L70 40 L80 90Z"/></g><rect y="90" width="200" height="22" fill="#6a6558"/></svg>',
-        prompt: 'A small dirt trailhead parking lot among redwood trees at dawn, mist between the trunks, a wooden trail sign with illegible text, a police barricade sawhorse, no vehicles except a distant patrol car, 1969 Northern California.' },
+        prompt: 'A small dirt-and-gravel trailhead parking lot among redwood trees at dawn, mist between the trunks. Inside a rope cordon stands a 1960s two-door sedan: its passenger-side window smashed out, only jagged glass edges left in the frame, glass crumbs glinting on the ground; a dark smeared palm print on the rear fender and a dark patch soaked into the gravel about two metres behind the passenger-side rear wheel; small numbered evidence markers in a half-circle beside the passenger door. A police sawhorse barricade, a wooden trail sign with illegible text, a distant patrol car, 1969 Northern California.' },
+      mh_car: { use: '검시 보고서 첨부 — 메이슨 힐 현장, 앞좌석의 두 사람 (담요로 덮음)', ratio: '4:3', sensitive: true,
+        svg: '<svg viewBox="0 0 200 150"><rect width="200" height="150" fill="#101113"/><ellipse cx="96" cy="84" rx="92" ry="60" fill="#2a2c2e" opacity=".7"/><path d="M28 104 L44 70 Q60 52 100 52 Q140 52 156 70 L172 104 Z" fill="#4a4d50"/><path d="M52 72 Q66 58 100 58 Q134 58 148 72 Z" fill="#1c1e20"/><path d="M68 72 q8 -12 18 0 z M112 72 q8 -12 18 0 z" fill="#8a8a84"/><rect x="22" y="104" width="156" height="18" rx="4" fill="#3a3c3e"/><circle cx="94" cy="80" r="2" fill="#e8c070"/><g fill="#5a130c"><circle cx="40" cy="128" r="3"/><circle cx="48" cy="133" r="2"/><circle cx="34" cy="136" r="1.5"/></g><g fill="#e8e4d8"><rect x="54" y="130" width="6" height="7"/><rect x="66" y="134" width="6" height="7"/></g></svg>',
+        prompt: 'Police flash photograph at night, December 1968: an early-1960s sedan parked at the edge of a gravel lookout lot, seen from the front-left corner, black night and fog beyond the reach of the flash. The driver window is half lowered. Through the windshield two human forms sit slumped in the front seats, each completely covered by a grey wool blanket, nothing of the bodies visible but the blanket shapes. The radio dial glows faintly on the dashboard. Fine dark spatter on the inside of the driver window glass and a dark run down the outer door sill; small numbered evidence markers stand on the gravel beside the driver door where a few brass casings lie. No faces, no wounds, no weapons, no readable text.',
+        must: '반쯤 내린 운전석 창 · 담요로 덮인 앞좌석의 두 형체 · 운전석 문 옆 자갈 위 번호표 · 계기판의 라디오 불빛' },
+      cedar_car: { use: '감식 사진 — 깨진 조수석 창 너머 차 안 (섬광 촬영)', ratio: '4:3', sensitive: true,
+        svg: '<svg viewBox="0 0 200 150"><rect width="200" height="150" fill="#0e0f11"/><path d="M14 20 H186 V130 H14 Z" fill="#26282a"/><path d="M14 20 L40 34 L30 60 L14 52 Z M186 20 L162 30 L172 58 L186 64 Z M14 130 L36 118 L50 130 Z" fill="#9aa0a4" opacity=".55"/><rect x="40" y="70" width="120" height="44" rx="6" fill="#6a6660"/><rect x="40" y="40" width="120" height="34" rx="6" fill="#7a766e"/><g fill="#4a0f08"><circle cx="70" cy="50" r="1.6"/><circle cx="84" cy="46" r="1.2"/><circle cx="96" cy="54" r="2"/><circle cx="110" cy="44" r="1.3"/><circle cx="122" cy="52" r="1.7"/><circle cx="76" cy="60" r="1"/><circle cx="130" cy="42" r="1.1"/><circle cx="104" cy="62" r="1.4"/><ellipse cx="84" cy="90" rx="26" ry="12" opacity=".85"/></g><g fill="#cfd4d8"><circle cx="60" cy="84" r=".9"/><circle cx="120" cy="96" r=".9"/><circle cx="140" cy="80" r=".8"/><circle cx="100" cy="104" r=".8"/></g><path d="M150 76 q6 -2 8 6 q-2 8 -8 6" fill="none" stroke="#4a0f08" stroke-width="3"/></svg>',
+        prompt: 'Police flash photograph at night, May 1969, taken from outside the passenger side of an early-1960s two-door sedan, looking in through the smashed-out passenger window; only jagged edges of safety glass remain in the frame. Inside: the empty bench seat glittering with crumbs of glass, dozens of small dark spatter dots across the passenger seat back, the headrest and the pale headliner, a dark pool soaked into the passenger seat cushion, and on the far side dark smeared palm marks on the inside driver door handle and window frame. No people, no bodies, no weapons, no readable text.',
+        must: '창틀에 가장자리만 남은 조수석 창 · 좌석 위 유리 알갱이 · 등받이와 천장의 작은 비산흔 수십 점 · 시트에 스민 고인 얼룩 · 건너편 운전석 문 손잡이의 손자국' },
       payphone: { use: '도크 스트리트 주유소 옆 공중전화 — 줄에 매달린 수화기', ratio: '3:4',
         svg: '<svg viewBox="0 0 150 200"><rect width="150" height="200" fill="#1c1e22"/><rect x="40" y="30" width="70" height="150" fill="#2f3a44" stroke="#8a9aa8" stroke-width="2"/><rect x="58" y="70" width="34" height="50" fill="#6a7078"/><path d="M75 120 q-4 30 6 46" stroke="#111" stroke-width="3" fill="none"/><rect x="74" y="162" width="16" height="8" rx="3" fill="#111"/><circle cx="130" cy="30" r="10" fill="#e8c070" opacity=".6"/></svg>',
         prompt: 'A glass-panelled roadside telephone booth next to a closed gas station at night, the receiver hanging down on its metal cord, a sodium streetlight glowing in fog, across the street the lit loading bay of a newspaper distribution warehouse with bundled papers, 1969, harsh police flash, no readable signs.' },

diff --git a/img/manifest.js b/img/manifest.js
@@ -73,7 +73,8 @@ window.MG.images = {
   "c04/scene": "img/c04/scene.webp?v=eb133409",
   "c04/siteboard": "img/c04/siteboard.webp?v=3c43e2ed",
   "c04/wind": "img/c04/wind.webp?v=2fd0c4b9",
-  "c05/cedar": "img/c05/cedar.webp?v=9bf56c1d",
+  "c05/cedar": "img/c05/cedar.webp?v=a9c76744",
+  "c05/cedar_car": "img/c05/cedar_car.webp?v=a773fe6b",
   "c05/cipherimg": "img/c05/cipherimg.webp?v=9be28363",
   "c05/cover": "img/c05/cover.webp?v=bfba11ba",
   "c05/cover_s": "img/c05/cover_s.webp?v=4e1517fa",
@@ -85,7 +86,8 @@ window.MG.images = {
   "c05/env_typed": "img/c05/env_typed.webp?v=b580f052",
   "c05/letter1": "img/c05/letter1.webp?v=e312a814",
   "c05/lighthouse": "img/c05/lighthouse.webp?v=99ed9a7c",
-  "c05/masonhill": "img/c05/masonhill.webp?v=b0ad8c55",
+  "c05/masonhill": "img/c05/masonhill.webp?v=15d848d4",
+  "c05/mh_car": "img/c05/mh_car.webp?v=9535b117",
   "c05/payphone": "img/c05/payphone.webp?v=d938a1a5",
   "c05/sketch": "img/c05/sketch.webp?v=5f76bfcb",
   "c05/truck": "img/c05/truck.webp?v=23f71f86",
